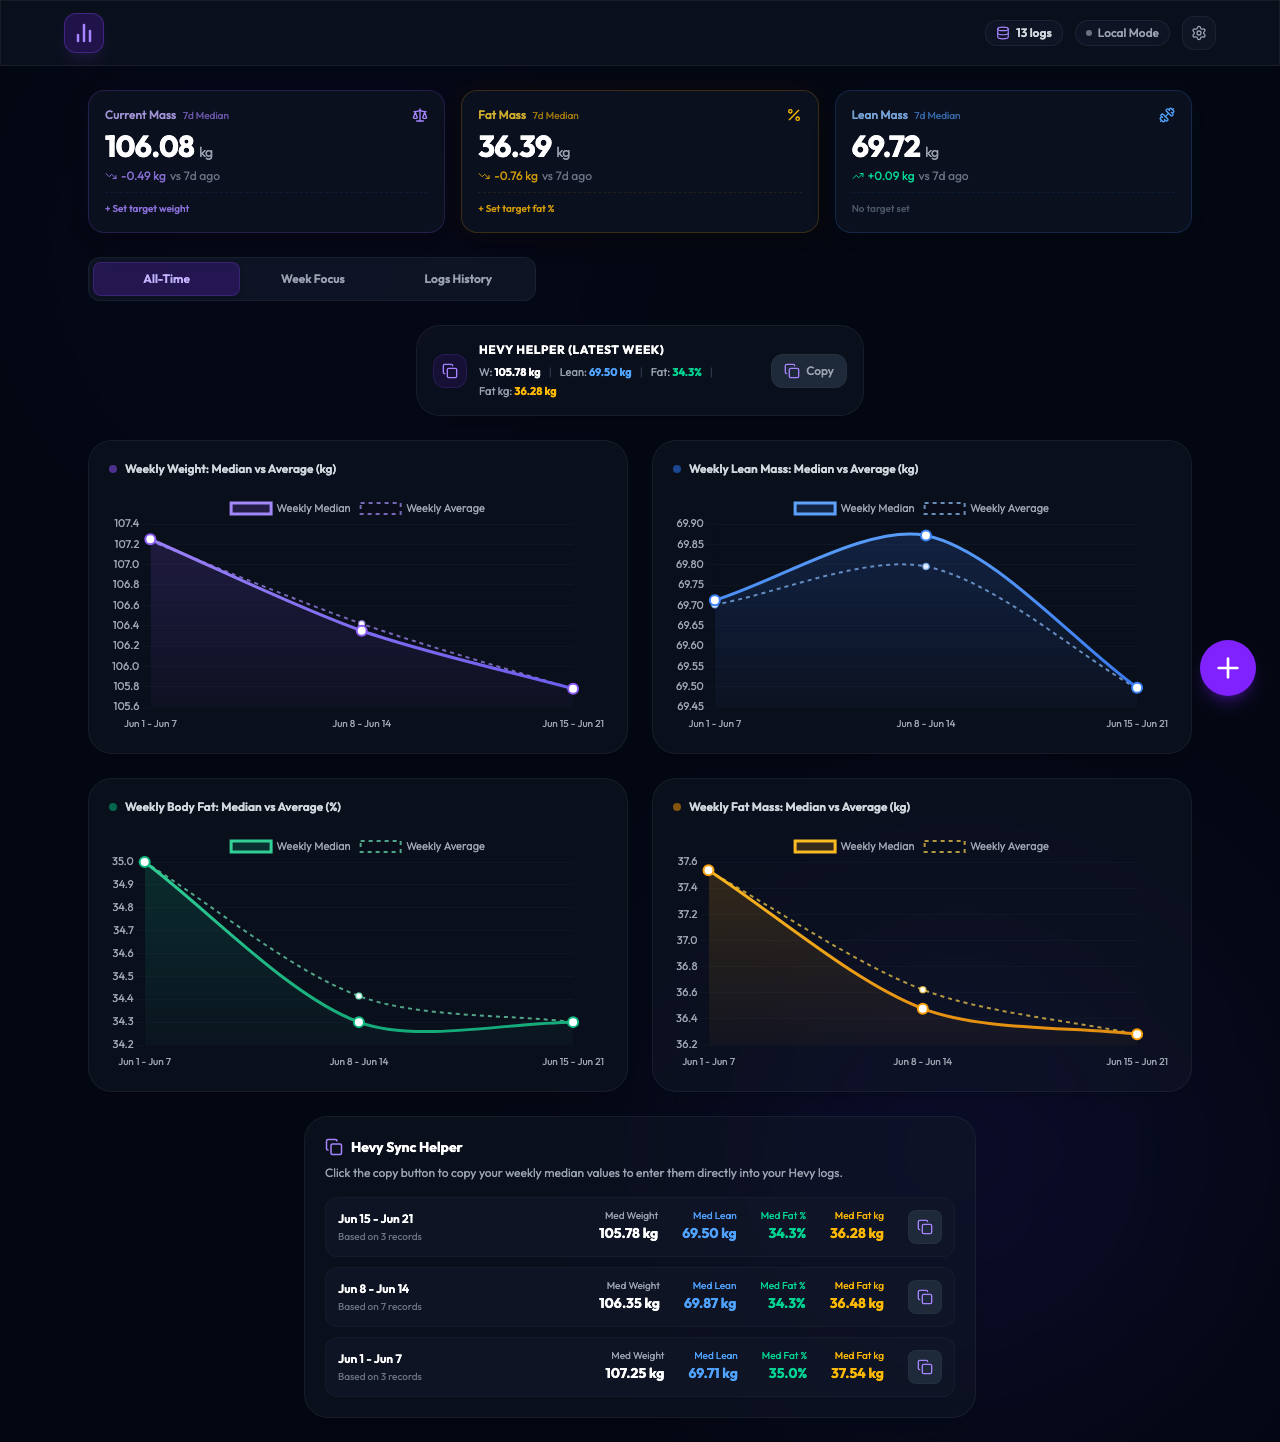
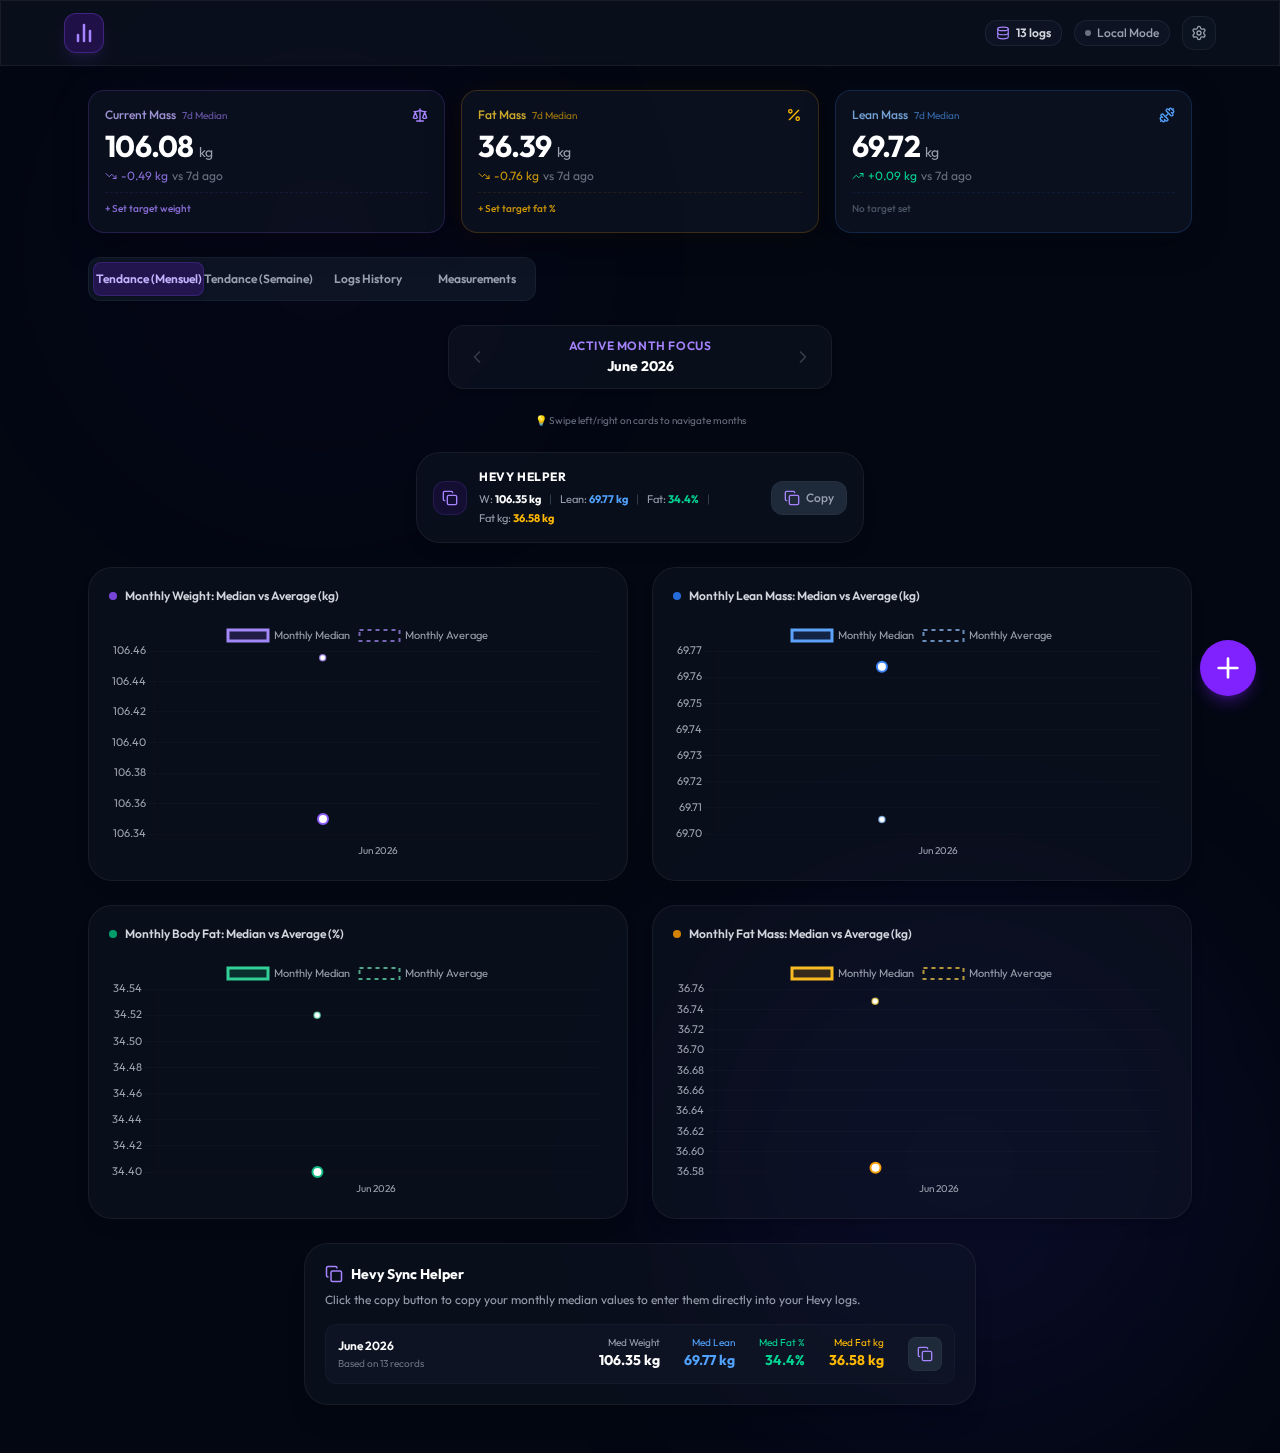
feat: add monthly hevy sync helper and navigation (#28)
- Added `selectedMonthIndex` and related actions to the Pinia store.
- Implemented monthly swipe controls, navigation bar, and active month Hevy card.
- Added full monthly Hevy Sync list at the bottom of the monthly view.
- Generalized the copy helper function to `copyAverage` to be used for both tabs.
- Updated E2E Playwright tests to align with UI changes and port configuration.

diff --git a/src/components/ProgressCharts.vue b/src/components/ProgressCharts.vue
@@ -19,7 +19,75 @@
     <div 
       v-show="store.activeTab === 'monthly'"
       class="space-y-6 animate-fade-in"
+      @touchstart="handleTouchStart"
+      @touchend="handleTouchEnd"
     >
+      <!-- MONTH NAVIGATION BAR -->
+      <div v-if="store.activeMonth" class="flex items-center justify-between glass-card p-3 rounded-2xl max-w-sm mx-auto shadow-md">
+        <!-- Prev month button -->
+        <button
+          @click="store.goToPreviousMonth"
+          :disabled="store.selectedMonthIndex >= store.groupedMonths.length - 1"
+          class="p-1.5 rounded-lg hover:bg-gray-800 text-gray-400 hover:text-white disabled:opacity-30 disabled:hover:bg-transparent cursor-pointer transition-colors duration-200"
+        >
+          <ChevronLeft class="w-5 h-5" />
+        </button>
+
+        <!-- Current month display label -->
+        <div class="text-center select-none">
+          <div class="text-xs text-violet-400 font-semibold uppercase tracking-wider">Active Month Focus</div>
+          <div class="text-sm font-bold text-white mt-0.5">{{ store.activeMonth.label }}</div>
+        </div>
+
+        <!-- Next month button -->
+        <button
+          @click="store.goToNextMonth"
+          :disabled="store.selectedMonthIndex <= 0"
+          class="p-1.5 rounded-lg hover:bg-gray-800 text-gray-400 hover:text-white disabled:opacity-30 disabled:hover:bg-transparent cursor-pointer transition-colors duration-200"
+        >
+          <ChevronRight class="w-5 h-5" />
+        </button>
+      </div>
+
+      <!-- Touch Swipe tip -->
+      <p class="text-center text-[10px] text-gray-500 select-none">💡 Swipe left/right on cards to navigate months</p>
+
+      <!-- HEVY SYNC HELPER FOR ACTIVE MONTH -->
+      <div
+        v-if="store.activeMonth"
+        class="glass-card p-4 rounded-3xl max-w-md mx-auto shadow-lg flex items-center justify-between border border-gray-800/40 hover:border-gray-700/60 transition-all duration-300"
+      >
+        <div class="flex items-center gap-3">
+          <div class="p-2 rounded-xl bg-violet-600/10 border border-violet-500/15 flex-shrink-0">
+            <Copy class="w-4 h-4 text-violet-400" />
+          </div>
+          <div>
+            <h4 class="text-xs font-bold text-white uppercase tracking-wider flex items-center gap-1.5">
+              <span>Hevy Helper</span>
+            </h4>
+            <div class="flex flex-wrap items-center gap-x-2 gap-y-0.5 mt-1.5 text-[11px] text-gray-400">
+              <span class="flex items-center gap-0.5">W: <strong class="text-white">{{ store.activeMonth.medianMass.toFixed(2) }} kg</strong></span>
+              <span class="text-gray-700">|</span>
+              <span class="flex items-center gap-0.5">Lean: <strong class="text-blue-400">{{ store.activeMonth.medianLeanMass.toFixed(2) }} kg</strong></span>
+              <span class="text-gray-700">|</span>
+              <span class="flex items-center gap-0.5">Fat: <strong class="text-emerald-400">{{ store.activeMonth.medianFat.toFixed(1) }}%</strong></span>
+              <span class="text-gray-700">|</span>
+              <span class="flex items-center gap-0.5">Fat kg: <strong class="text-amber-400">{{ store.activeMonth.medianFatMass.toFixed(2) }} kg</strong></span>
+            </div>
+          </div>
+        </div>
+
+        <button
+          @click="copyAverage(store.activeMonth)"
+          class="p-2 px-3 rounded-xl bg-gray-800 hover:bg-gray-750 text-gray-400 hover:text-white transition-all duration-200 cursor-pointer border border-gray-700/30 flex-shrink-0 flex items-center gap-1.5 text-xs font-medium"
+          title="Copy Monthly Medians"
+        >
+          <Check v-if="copiedId === store.activeMonth.id" class="w-4 h-4 text-emerald-400 animate-bounce" />
+          <Copy v-else class="w-4 h-4 text-violet-400" />
+          <span>{{ copiedId === store.activeMonth.id ? 'Copied!' : 'Copy' }}</span>
+        </button>
+      </div>
+
       <div class="grid grid-cols-1 md:grid-cols-2 gap-6">
         <!-- Weight Average Chart -->
         <div class="glass-card p-4 sm:p-5 rounded-3xl shadow-lg">
@@ -58,6 +126,62 @@
           </h3>
           <div class="relative h-[240px] w-full">
             <canvas ref="fatMassMonthlyCanvas"></canvas>
+          </div>
+        </div>
+      </div>
+
+      <!-- HEVY SYNC UTILITY (MONTHLY) -->
+      <div class="glass-card p-5 rounded-3xl max-w-2xl mx-auto shadow-xl">
+        <div class="flex items-center gap-2 mb-2">
+          <Copy class="w-4.5 h-4.5 text-violet-400" />
+          <h3 class="text-sm font-bold text-white">Hevy Sync Helper</h3>
+        </div>
+        <p class="text-xs text-gray-400 mb-4">
+          Click the copy button to copy your monthly median values to enter them directly into your Hevy logs.
+        </p>
+
+        <!-- Averages List -->
+        <div class="space-y-2.5">
+          <div
+            v-for="month in store.groupedMonths"
+            :key="month.id"
+            class="flex items-center justify-between p-3 rounded-xl bg-gray-900/60 border border-gray-800/40 hover:border-gray-700/60 transition-colors duration-200"
+          >
+            <div>
+              <div class="text-xs font-semibold text-white flex items-center gap-1.5">
+                <span>{{ month.label }}</span>
+              </div>
+              <div class="text-[10px] text-gray-500 mt-0.5">Based on {{ month.logs.length }} records</div>
+            </div>
+
+            <div class="flex items-center gap-5 sm:gap-6 flex-wrap sm:flex-nowrap">
+              <div class="text-right">
+                <span class="text-[10px] text-gray-400 block leading-none">Med Weight</span>
+                <span class="text-sm font-bold text-white mt-0.5 block">{{ month.medianMass.toFixed(2) }} kg</span>
+              </div>
+              <div class="text-right">
+                <span class="text-[10px] text-blue-400 block leading-none">Med Lean</span>
+                <span class="text-sm font-bold text-blue-400 mt-0.5 block">{{ month.medianLeanMass.toFixed(2) }} kg</span>
+              </div>
+              <div class="text-right">
+                <span class="text-[10px] text-emerald-400 block leading-none">Med Fat %</span>
+                <span class="text-sm font-bold text-emerald-400 mt-0.5 block">{{ month.medianFat.toFixed(1) }}%</span>
+              </div>
+              <div class="text-right">
+                <span class="text-[10px] text-amber-400 block leading-none">Med Fat kg</span>
+                <span class="text-sm font-bold text-amber-400 mt-0.5 block">{{ month.medianFatMass.toFixed(2) }} kg</span>
+              </div>
+
+              <!-- Copy trigger -->
+              <button
+                @click="copyAverage(month)"
+                class="p-2 rounded-lg bg-gray-800 hover:bg-gray-750 text-gray-400 hover:text-white transition-all duration-200 cursor-pointer border border-gray-700/30 flex-shrink-0"
+                title="Copy Monthly Averages"
+              >
+                <Check v-if="copiedId === month.id" class="w-4 h-4 text-emerald-400 animate-pulse" />
+                <Copy v-else class="w-4 h-4 text-violet-400" />
+              </button>
+            </div>
           </div>
         </div>
       </div>
@@ -126,13 +250,13 @@
         </div>
 
         <button 
-          @click="copyWeeklyAverage(store.activeWeek)"
+          @click="copyAverage(store.activeWeek)"
           class="p-2 px-3 rounded-xl bg-gray-800 hover:bg-gray-750 text-gray-400 hover:text-white transition-all duration-200 cursor-pointer border border-gray-700/30 flex-shrink-0 flex items-center gap-1.5 text-xs font-medium"
           title="Copy Weekly Medians"
         >
-          <Check v-if="copiedWeekId === store.activeWeek.id" class="w-4 h-4 text-emerald-400 animate-bounce" />
+          <Check v-if="copiedId === store.activeWeek.id" class="w-4 h-4 text-emerald-400 animate-bounce" />
           <Copy v-else class="w-4 h-4 text-violet-400" />
-          <span>{{ copiedWeekId === store.activeWeek.id ? 'Copied!' : 'Copy' }}</span>
+          <span>{{ copiedId === store.activeWeek.id ? 'Copied!' : 'Copy' }}</span>
         </button>
       </div>
 
@@ -222,11 +346,11 @@
 
               <!-- Copy trigger -->
               <button 
-                @click="copyWeeklyAverage(week)"
+                @click="copyAverage(week)"
                 class="p-2 rounded-lg bg-gray-800 hover:bg-gray-750 text-gray-400 hover:text-white transition-all duration-200 cursor-pointer border border-gray-700/30 flex-shrink-0"
                 title="Copy Weekly Averages"
               >
-                <Check v-if="copiedWeekId === week.id" class="w-4 h-4 text-emerald-400 animate-pulse" />
+                <Check v-if="copiedId === week.id" class="w-4 h-4 text-emerald-400 animate-pulse" />
                 <Copy v-else class="w-4 h-4 text-violet-400" />
               </button>
             </div>
@@ -307,15 +431,15 @@ let chartL_Avg = null;
 let chartF_Avg = null;
 let chartFM_Avg = null;
 
-const copiedWeekId = ref(null);
+const copiedId = ref(null);
 
 // Copy Hevy text
-const copyWeeklyAverage = (week) => {
-  const text = `Weight: ${week.medianMass.toFixed(2)}kg, Fat: ${week.medianFat.toFixed(1)}%`;
+const copyAverage = (item) => {
+  const text = `Weight: ${item.medianMass.toFixed(2)}kg, Fat: ${item.medianFat.toFixed(1)}%`;
   navigator.clipboard.writeText(text).then(() => {
-    copiedWeekId.value = week.id;
+    copiedId.value = item.id;
     setTimeout(() => {
-      copiedWeekId.value = null;
+      copiedId.value = null;
     }, 2000);
   });
 };
@@ -338,9 +462,17 @@ const handleTouchEnd = (e) => {
   // Horizontal delta check
   if (Math.abs(deltaX) > 60 && Math.abs(deltaY) < 40) {
     if (deltaX > 0) {
-      store.goToPreviousWeek();
+      if (store.activeTab === 'monthly') {
+        store.goToPreviousMonth();
+      } else {
+        store.goToPreviousWeek();
+      }
     } else {
-      store.goToNextWeek();
+      if (store.activeTab === 'monthly') {
+        store.goToNextMonth();
+      } else {
+        store.goToNextWeek();
+      }
     }
   }
 };

diff --git a/src/stores/bodyGraph.js b/src/stores/bodyGraph.js
@@ -93,6 +93,8 @@ export const useBodyGraphStore = defineStore('bodyGraph', {
     targetMass: null,
     targetFat: null,
     
+    // Index of the month in the groupedMonths list (0 is the newest month)
+    selectedMonthIndex: 0,
     // Index of the week in the groupedWeeks list (0 is the newest week)
     selectedWeekIndex: 0,
     // Active log record being edited, null if creating a new one
@@ -263,6 +265,15 @@ export const useBodyGraphStore = defineStore('bodyGraph', {
       return [...state.measurements].sort((a, b) => b.date.localeCompare(a.date));
     },
 
+    // Gets currently selected active month
+    activeMonth() {
+      const months = this.groupedMonths;
+      if (months.length === 0) return null;
+
+      const safeIndex = Math.max(0, Math.min(this.selectedMonthIndex, months.length - 1));
+      return months[safeIndex];
+    },
+
     // Gets currently selected active week
     activeWeek() {
       const weeks = this.groupedWeeks;
@@ -382,6 +393,20 @@ export const useBodyGraphStore = defineStore('bodyGraph', {
     setEditingMeasurement(measurement) {
       this.editingMeasurement = measurement;
       this.showAddMeasurementModal = true;
+    },
+
+    // Navigation actions for months list
+    goToPreviousMonth() {
+      const maxIndex = this.groupedMonths.length - 1;
+      if (this.selectedMonthIndex < maxIndex) {
+        this.selectedMonthIndex++;
+      }
+    },
+
+    goToNextMonth() {
+      if (this.selectedMonthIndex > 0) {
+        this.selectedMonthIndex--;
+      }
     },
 
     // Navigation actions for weeks list
@@ -540,6 +565,7 @@ export const useBodyGraphStore = defineStore('bodyGraph', {
         this.user = null;
         this.session = null;
         this.activeTab = 'monthly';
+        this.selectedMonthIndex = 0;
         this.selectedWeekIndex = 0;
         this.editingLog = null;
         await this.loadLogs();
@@ -552,6 +578,7 @@ export const useBodyGraphStore = defineStore('bodyGraph', {
         this.user = null;
         this.session = null;
         this.activeTab = 'monthly';
+        this.selectedMonthIndex = 0;
         this.selectedWeekIndex = 0;
         this.editingLog = null;
         this.editingMeasurement = null;
@@ -568,7 +595,12 @@ export const useBodyGraphStore = defineStore('bodyGraph', {
         this.logs = await getAllLogs(this.currentUserId);
         this.measurements = await getAllMeasurements(this.currentUserId);
         
-        // Cleanly clamp selectedWeekIndex after loading logs to keep bounds valid
+        // Cleanly clamp selected indices after loading logs to keep bounds valid
+        const maxMonthIndex = this.groupedMonths.length - 1;
+        if (this.selectedMonthIndex > maxMonthIndex) {
+          this.selectedMonthIndex = Math.max(0, maxMonthIndex);
+        }
+
         const maxIndex = this.groupedWeeks.length - 1;
         if (this.selectedWeekIndex > maxIndex) {
           this.selectedWeekIndex = Math.max(0, maxIndex);

diff --git a/tests/charts.spec.js b/tests/charts.spec.js
@@ -6,7 +6,7 @@ test('Seed user data and take screenshot', async ({ page }) => {
   page.on('pageerror', err => console.error('BROWSER ERROR:', err.message));
 
   // Navigate to application
-  await page.goto('http://localhost:5174/');
+  await page.goto('http://localhost:4173/');
 
   // 1. Click "Continue as Guest" on OnboardingScreen
   await page.getByRole('button', { name: 'Continue as Guest' }).click();
@@ -18,7 +18,7 @@ test('Seed user data and take screenshot', async ({ page }) => {
   await page.evaluate(() => {
     return new Promise((resolve, reject) => {
       const DB_NAME = 'SimpleBodyGraphDB';
-      const DB_VERSION = 2;
+      const DB_VERSION = 3;
       const STORE_LOGS = 'logs';
       const request = indexedDB.open(DB_NAME, DB_VERSION);
       request.onerror = () => reject(request.error);
@@ -56,28 +56,17 @@ test('Seed user data and take screenshot', async ({ page }) => {
   // Click "Continue as Guest" again since memory state is reset
   await page.getByRole('button', { name: 'Continue as Guest' }).click();
 
-  // Click "Week Focus" tab to display active week helper cards
-  await page.getByRole('button', { name: 'Week Focus' }).click();
-
-  // Wait for the active week logs helper or charts to load
+  // Wait for the active month logs helper or charts to load since Month is the new default tab
   await expect(page.locator('.glass-card >> text=Hevy Helper').first()).toBeVisible();
-
-  // Assert Hevy Helper shows correct medians (from the active week of Jun 15 - Jun 21)
-  await expect(page.locator('text=W: 105.78 kg').first()).toBeVisible();
-  await expect(page.locator('text=Lean: 69.50 kg').first()).toBeVisible();
-  await expect(page.locator('text=Fat: 34.3%').first()).toBeVisible();
-  await expect(page.locator('text=Fat kg: 36.28 kg').first()).toBeVisible();
 
   // Assert 7d rolling medians are displayed on the top cards (calculated over the last 7 days ending Jun 17)
   await expect(page.locator('text=106.08 kg').first()).toBeVisible(); // Total Mass card
   await expect(page.locator('text=69.72 kg').first()).toBeVisible(); // Lean Mass card
   await expect(page.locator('text=36.39 kg').first()).toBeVisible(); // Fat Mass card
 
-  // Click "All-Time" tab to display long-term weekly trends
-  await page.getByRole('button', { name: 'All-Time' }).click();
-
   // Assert the Hevy Sync Helper list is visible at the bottom
-  await expect(page.locator('text=Hevy Sync Helper')).toBeVisible();
+  // Using bounding box or first visible element
+  await expect(page.locator('text=Hevy Sync Helper').first()).toBeVisible();
 
   // Let it render for 1 second
   await page.waitForTimeout(1000);
